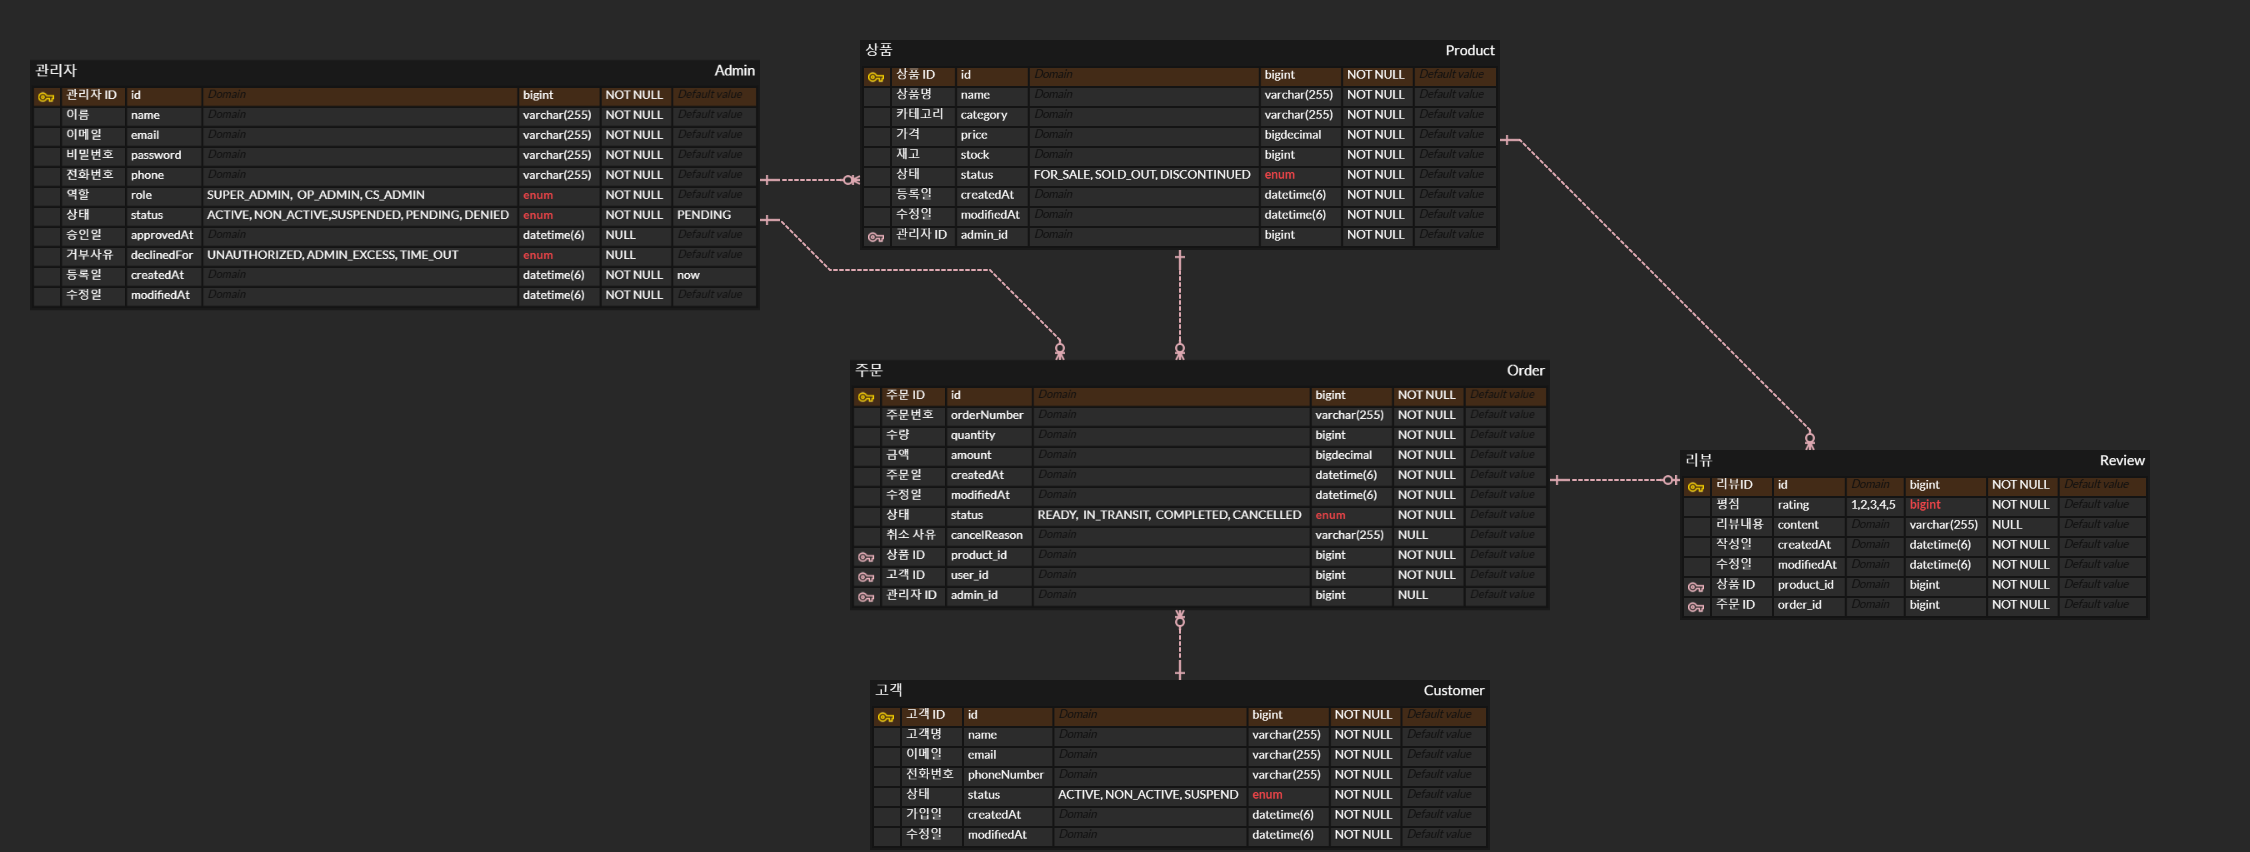
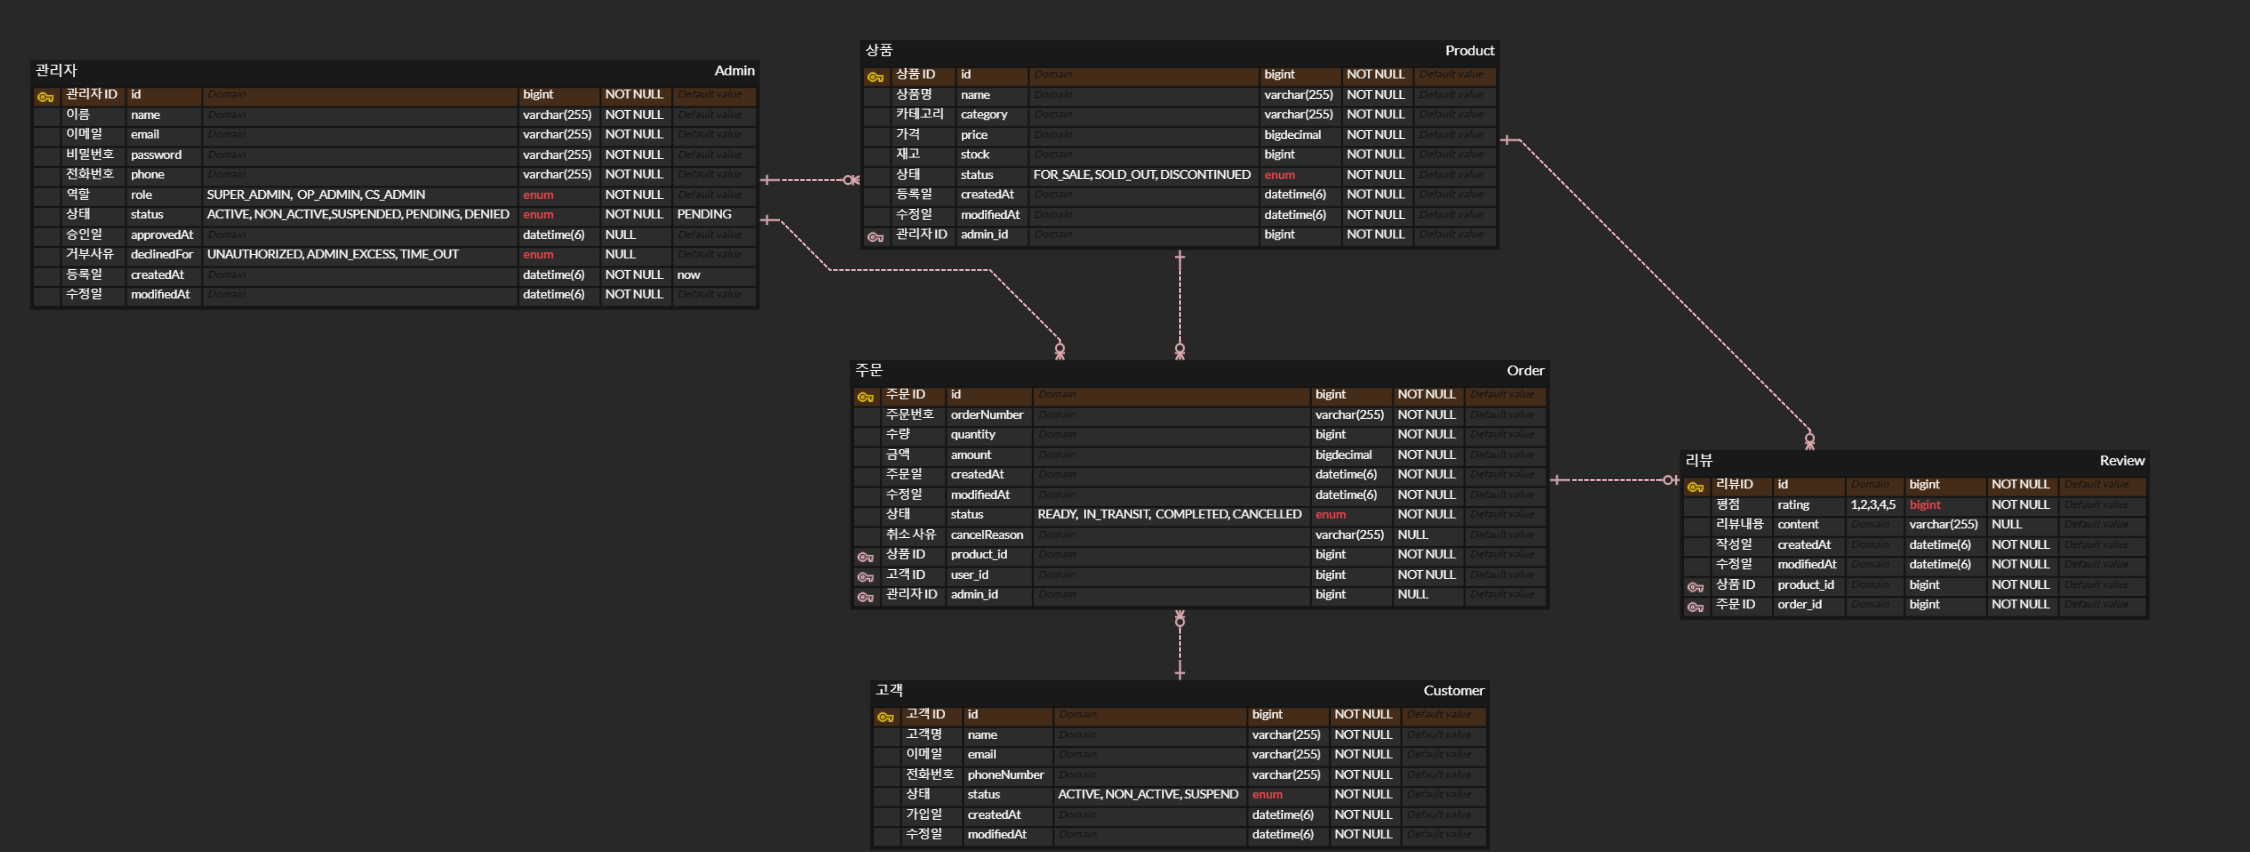
fix : erd 이미지 보이게 하기 시도

diff --git a/README.md b/README.md
@@ -194,7 +194,7 @@ SUPER_ADMIN, OP_ADMIN 전용 실시간 통계 API
 ## 📊 ERD
 
 ```
-![ERD](img/ERD.png)
+![erd.png](img/erd.png)
 ```
 
 ---
